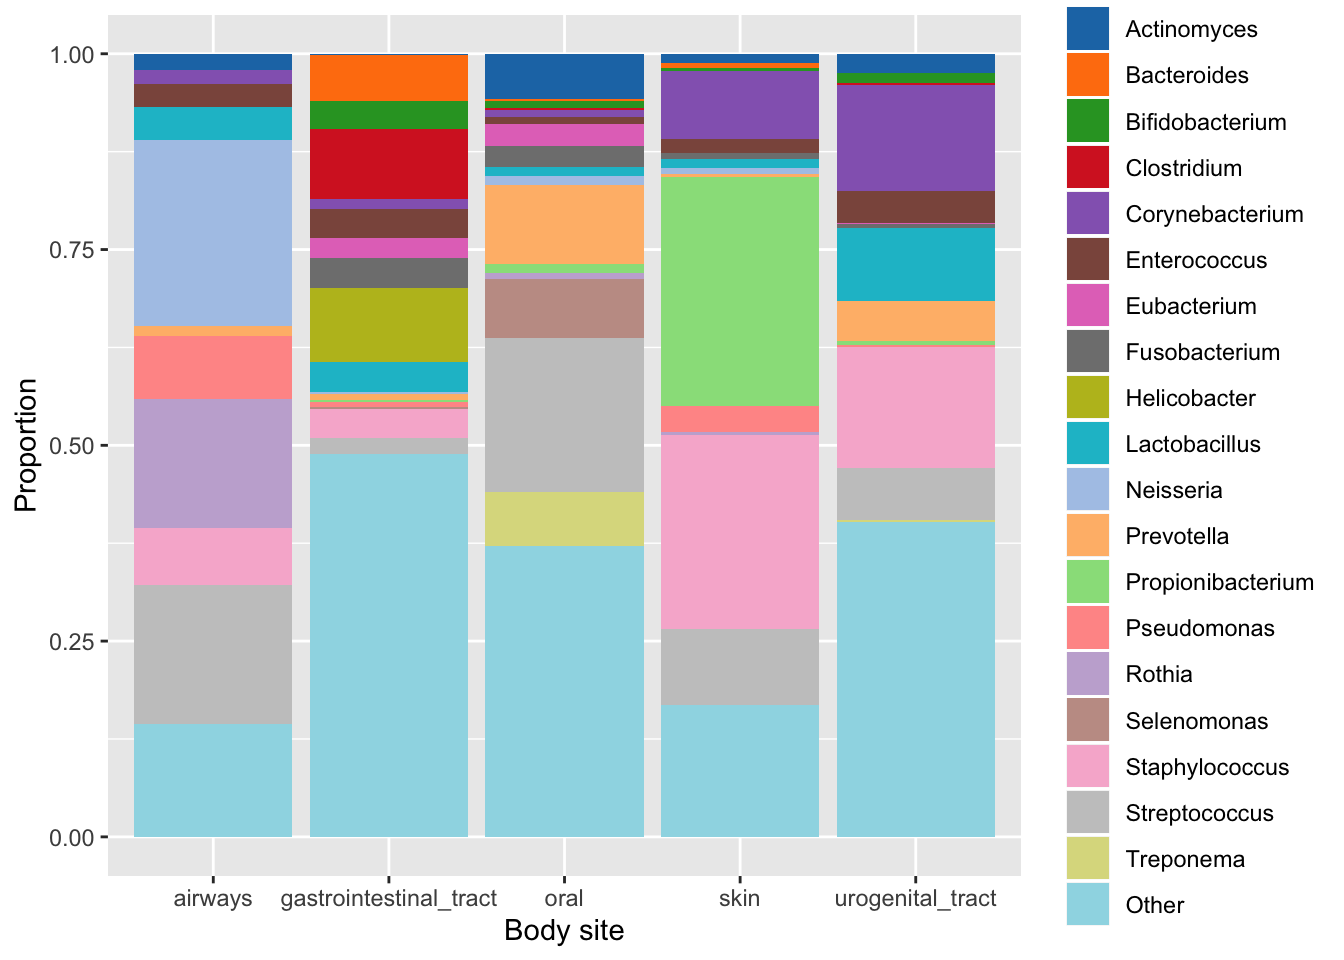
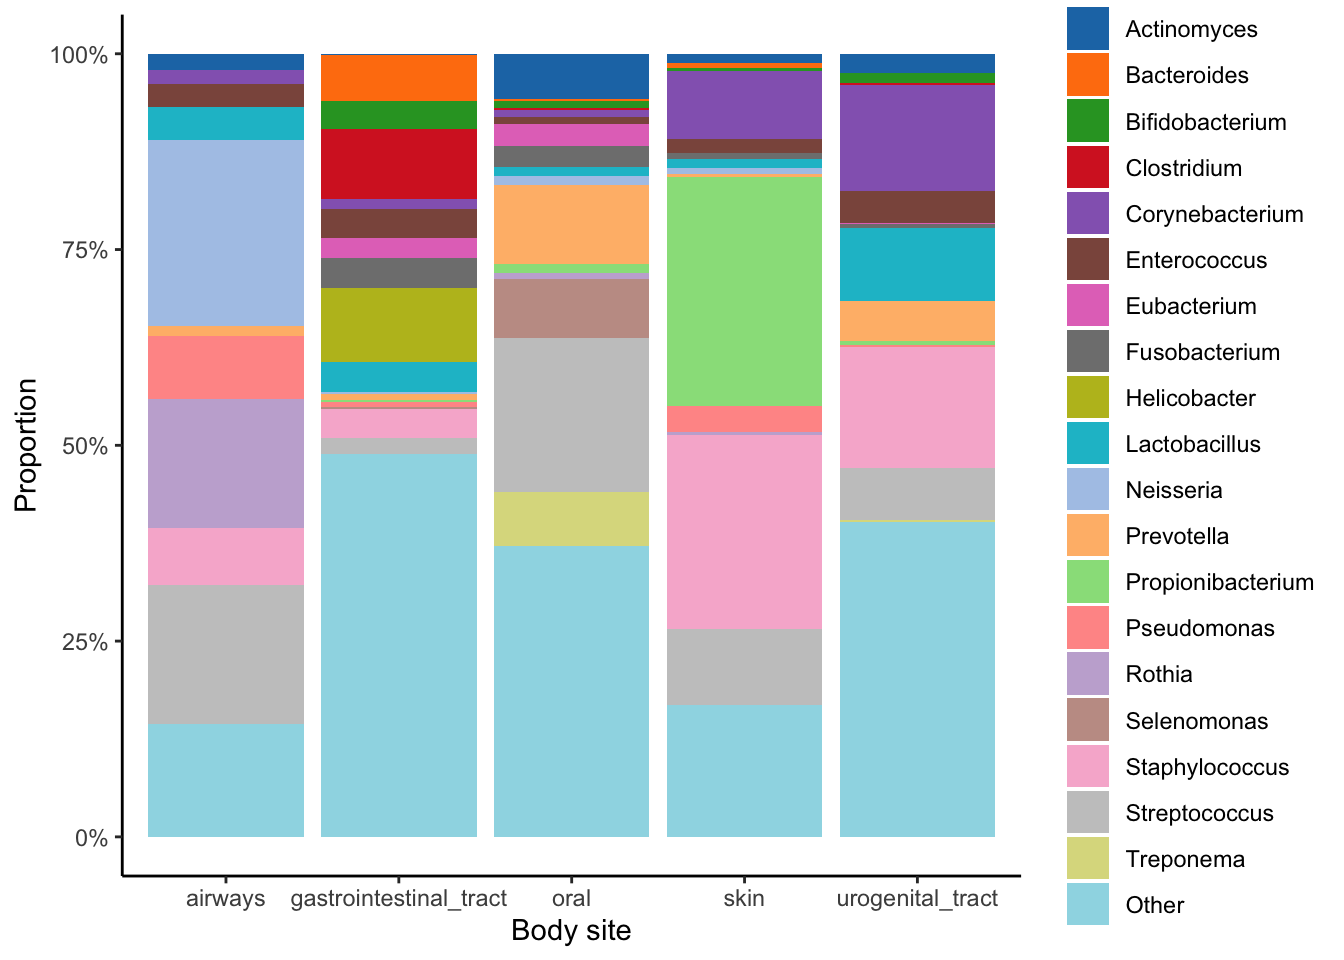
Fix typo

Changed region(s): [[0.0312, 0.0, 0.7812, 1.0]]

diff --git a/public/2019/09/28/compositional-bar-plots/index.html b/public/2019/09/28/compositional-bar-plots/index.html
@@ -103,7 +103,7 @@ dim(d0)</code></pre>
 ##                    267                    654                    529 
 ##                  wound 
 ##                      4</code></pre>
-<p>We subset the data to inlcude body sites with sufficient data:</p>
+<p>We subset the data to include only body sites with sufficient data:</p>
 <pre class="r"><code>d &lt;- d0 %&gt;%
   filter(`HMP Isolation Body Site` %in% c(&quot;airways&quot;, &quot;gastrointestinal_tract&quot;,
                                           &quot;oral&quot;, &quot;skin&quot;, &quot;urogenital_tract&quot;)) %&gt;%
@@ -140,7 +140,9 @@ propNew &lt;- rowsum(d2 %&gt;% select(-Genus), d2$Genus) %&gt;%
 g &lt;- propNew %&gt;%
   ggplot(aes(x = `Body site`, y = Proportion)) +
   geom_col(aes(fill = Genus)) +
-  scale_fill_d3(palette = &quot;category20&quot;)
+  scale_fill_d3(palette = &quot;category20&quot;) +
+  scale_y_continuous(labels = scales::percent) +
+  theme_classic() 
 
 print(g)  </code></pre>
 <p><img src="/post/2019-09-28-composition-bar-plots_files/figure-html/unnamed-chunk-6-1.png" width="672" style="display: block; margin: auto;" /></p>

diff --git a/content/post/2019-09-28-composition-bar-plots.html b/content/post/2019-09-28-composition-bar-plots.html
@@ -42,7 +42,7 @@ dim(d0)</code></pre>
 ##                    267                    654                    529 
 ##                  wound 
 ##                      4</code></pre>
-<p>We subset the data to inlcude body sites with sufficient data:</p>
+<p>We subset the data to include only body sites with sufficient data:</p>
 <pre class="r"><code>d &lt;- d0 %&gt;%
   filter(`HMP Isolation Body Site` %in% c(&quot;airways&quot;, &quot;gastrointestinal_tract&quot;,
                                           &quot;oral&quot;, &quot;skin&quot;, &quot;urogenital_tract&quot;)) %&gt;%
@@ -79,7 +79,9 @@ propNew &lt;- rowsum(d2 %&gt;% select(-Genus), d2$Genus) %&gt;%
 g &lt;- propNew %&gt;%
   ggplot(aes(x = `Body site`, y = Proportion)) +
   geom_col(aes(fill = Genus)) +
-  scale_fill_d3(palette = &quot;category20&quot;)
+  scale_fill_d3(palette = &quot;category20&quot;) +
+  scale_y_continuous(labels = scales::percent) +
+  theme_classic() 
 
 print(g)  </code></pre>
 <p><img src="/post/2019-09-28-composition-bar-plots_files/figure-html/unnamed-chunk-6-1.png" width="672" style="display: block; margin: auto;" /></p>
